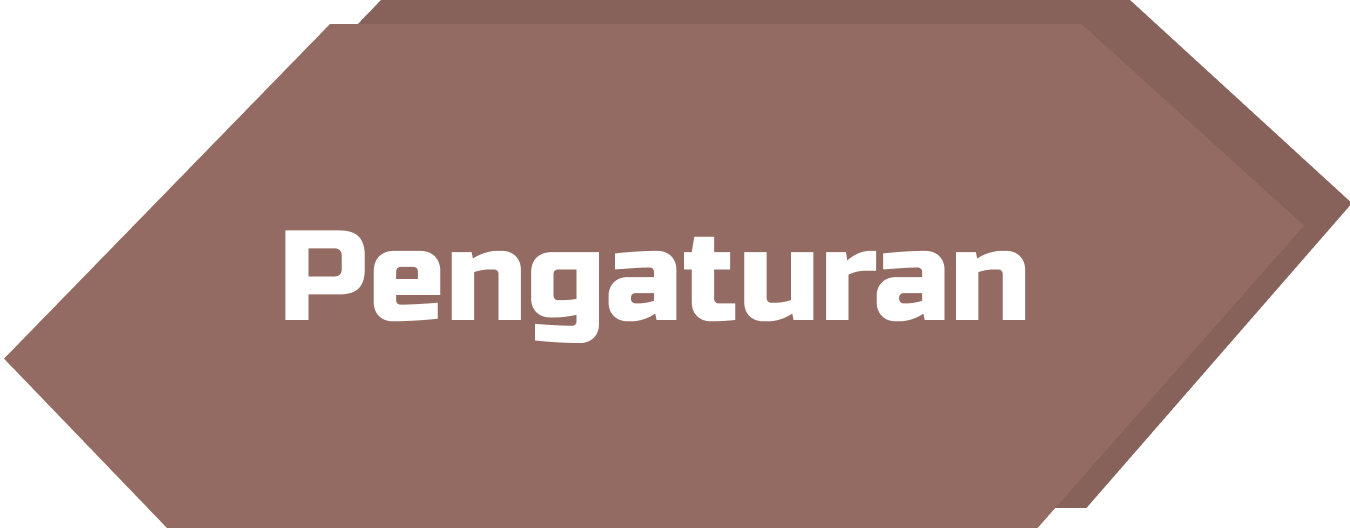
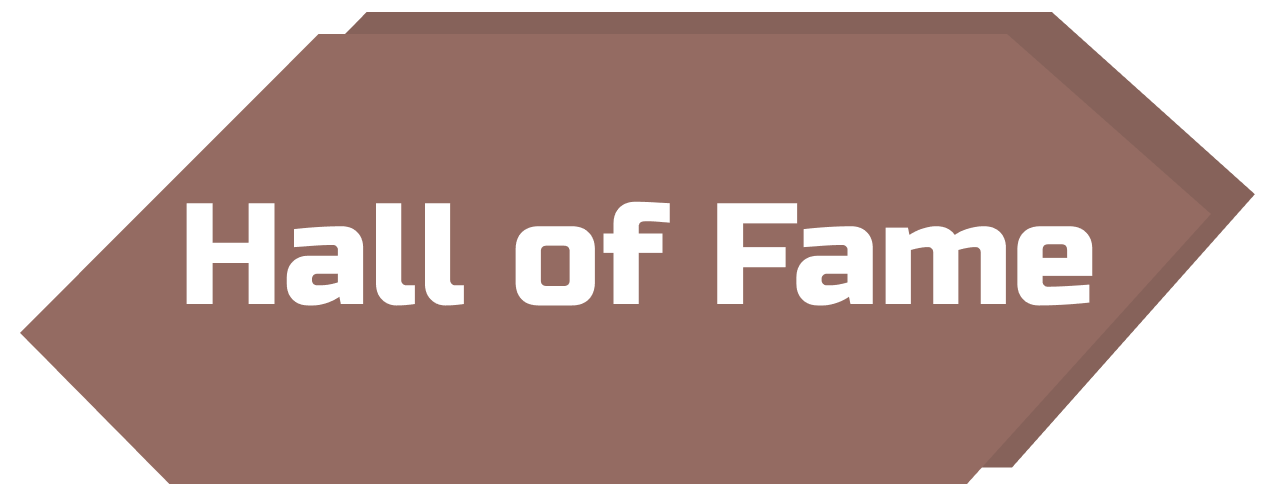
Score Page

diff --git a/GamePlay/src/id/ac/its/trexucul/main/pages/CharacterPage.java b/GamePlay/src/id/ac/its/trexucul/main/pages/CharacterPage.java
@@ -30,7 +30,7 @@ public class CharacterPage extends PageState{
 			public void onClick() {
 				// Level 1
 				selectedCharacter = SelectedGamePage.Satu;
-				window.setGamePage(new GamePage(window, SelectedGamePage.Satu, LevelPage.selectedPage));
+				window.setGamePage(new GamePage(window, LevelPage.selectedPage,  selectedCharacter));
 				window.getGamePage().setCharacter(SelectedGamePage.Satu);
 				window.getGamePage().getPlayer().setFireDamage(LevelPage.selectedPage);
 				//GamePage.character = SelectedGamePage.Satu;
@@ -45,7 +45,7 @@ public class CharacterPage extends PageState{
 			public void onClick() {
 				// Level 2
 				selectedCharacter = SelectedGamePage.Dua;
-				window.setGamePage(new GamePage(window, SelectedGamePage.Dua, LevelPage.selectedPage));
+				window.setGamePage(new GamePage(window, LevelPage.selectedPage,  selectedCharacter));
 				window.getGamePage().setCharacter(SelectedGamePage.Dua);
 				window.getGamePage().getPlayer().setFireDamage(LevelPage.selectedPage);
 				PageState.currentState = window.getGamePage();
@@ -59,7 +59,7 @@ public class CharacterPage extends PageState{
 			public void onClick() {
 				// Level 3
 				selectedCharacter = SelectedGamePage.Tiga;
-				window.setGamePage(new GamePage(window, SelectedGamePage.Tiga, LevelPage.selectedPage));
+				window.setGamePage(new GamePage(window, LevelPage.selectedPage,  selectedCharacter));
 				window.getGamePage().setCharacter(SelectedGamePage.Tiga);
 				window.getGamePage().getPlayer().setFireDamage(LevelPage.selectedPage);
 				PageState.currentState = window.getGamePage();

diff --git a/GamePlay/src/id/ac/its/trexucul/main/pages/LevelPage.java b/GamePlay/src/id/ac/its/trexucul/main/pages/LevelPage.java
@@ -29,8 +29,8 @@ public class LevelPage extends PageState {
 			public void onClick() {
 				// Level 1
 				//window.setGamePage(new GamePage(window, SelectedGamePage.Satu));
-				PageState.currentState = window.getCharacterPage();
 				selectedPage = SelectedGamePage.Satu;
+				PageState.currentState = window.getCharacterPage();
 			}
 		}));
 		
@@ -40,8 +40,8 @@ public class LevelPage extends PageState {
 			public void onClick() {
 				// Level 2
 				//window.setGamePage(new GamePage(window, SelectedGamePage.Dua));
-				PageState.currentState = window.getCharacterPage();
 				selectedPage = SelectedGamePage.Dua;
+				PageState.currentState = window.getCharacterPage();
 			}
 		}));
 		
@@ -51,8 +51,8 @@ public class LevelPage extends PageState {
 			public void onClick() {
 				// Level 3
 				//window.setGamePage(new GamePage(window, SelectedGamePage.Tiga));
-				PageState.currentState = window.getCharacterPage();
 				selectedPage = SelectedGamePage.Tiga;
+				PageState.currentState = window.getCharacterPage();
 			}
 		}));
 		

diff --git a/GamePlay/src/id/ac/its/trexucul/main/pages/MenuPage.java b/GamePlay/src/id/ac/its/trexucul/main/pages/MenuPage.java
@@ -33,7 +33,8 @@ public class MenuPage extends PageState {
 		btns.add(new CommonButton("pengaturan_menu_btn", Window.WIDTH/2 - 125, Window.HEIGHT/2 , new ClickListener() {
 			@Override
 			public void onClick() {
-				// pengaturan
+				// score
+				PageState.currentState = window.getScorePage();
 			}
 		}));
 		btns.add(new CommonButton("credit_btn", Window.WIDTH/2 - 125, Window.HEIGHT/2 + 100 , new ClickListener() {
